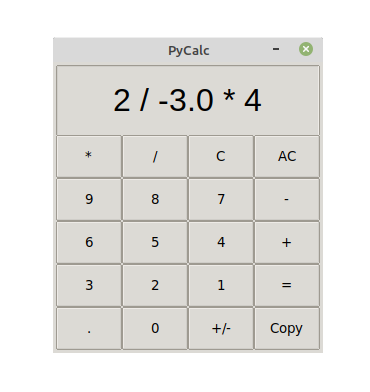
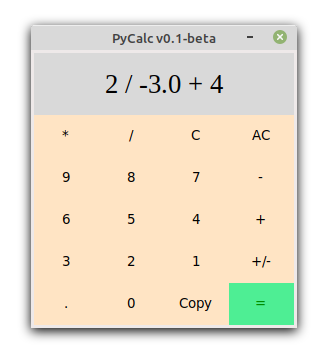
Bug fixes and cleanup

diff --git a/gui.py b/gui.py
@@ -13,14 +13,27 @@ class GUI(Tk):
         self.title("PyCalc v0.1-beta")
         self.resizable(False, False)
         styler = ttk.Style()
-        styler.theme_use("clam")
-        styler.configure("TButton", width='5', padding='10')
-        styler.configure("TLabel", font='Helvetica 24')
+        styler.configure("TLabel",
+                         font='Times 20')
+        styler.configure("TButton",
+                         relief='flat',
+                         width='5',
+                         padding='10',
+                         background='bisque')
+        styler.configure("GreenButton.TButton",
+                         relief='falt',
+                         background='SeaGreen2',
+                         foreground='green4')
+        styler.configure("Snow.TFrame",
+                         background='snow2')
         # Inheriting from Storage for program logic
         self.logic = Storage()
         # Set General layout
-        self.content = ttk.Frame(master=self, padding=(3, 3, 3, 3))
-        self.mainframe = ttk.Frame(self.content, relief='sunken')
+        self.content = ttk.Frame(master=self,
+                                 padding=(3, 3, 3, 3),
+                                 style='Snow.TFrame')
+        self.mainframe = ttk.Frame(self.content,
+                                   relief='flat')
         self.content.grid()
         self.mainframe.grid()
         self.label_text = StringVar()
@@ -31,8 +44,8 @@ class GUI(Tk):
         ''' Create the display '''
         display_frame = ttk.Frame(self.mainframe, relief='flat')
         display_frame['borderwidth'] = 10
-        display_label = ttk.Label(display_frame)
-        display_label['textvariable'] = self.label_text
+        display_label = ttk.Label(display_frame,
+                                  textvariable=self.label_text)
         # grid above widgets
         display_frame.grid(row=0, column=0, columnspan=4, pady=5, padx=5)
         display_label.grid(row=0, column=0, columnspan=4)
@@ -77,15 +90,16 @@ class GUI(Tk):
         one = ttk.Button(keypad, text='1',
                          command=lambda: self._button_invoke('1'))
         plusMinus = ttk.Button(keypad, text='+/-',
-                               command=lambda: self._button_invoke('P/M'))
+                               command=lambda: self._button_invoke('i'))
         # row 5
         dot = ttk.Button(keypad, text='.',
                          command=lambda: self._button_invoke('.'))
         zero = ttk.Button(keypad, text='0',
                           command=lambda: self._button_invoke('0'))
         copy = ttk.Button(keypad, text='Copy',
-                          command=lambda: self._button_invoke('Copy'))
+                          command=lambda: self._button_invoke('c'))
         equal = ttk.Button(keypad, text='=',
+                           style='GreenButton.TButton',
                            command=lambda: self._button_invoke('='))
         buttons = {mul: (1, 0),
                    div: (1, 1),
@@ -116,10 +130,10 @@ class GUI(Tk):
         if bt is '=':
             ''' If button pressed is '=' '''
             to_display = 'Ans: '+self.logic.show_answer()
-            self.label_text.set(to_display[-12:])
+            self.label_text.set(to_display[-17:])
         elif bt is 'Copy':
             self.logic.copy_to_clipboard()
         else:
             self.logic.into_storage(bt)
             to_display = self.logic.show_storage()
-            self.label_text.set(to_display[-12:])
+            self.label_text.set(to_display[-17:])

diff --git a/test.py b/test.py
@@ -1,5 +1,6 @@
 from storage import Storage
 
+
 def test1(storage_instance: Storage) -> tuple:
     test_case_input = "/2"
     for test_input in test_case_input:
@@ -60,12 +61,23 @@ def test5(storage_instance: Storage) -> tuple:
             )
 
 
+def test6(storage_instance: Storage) -> tuple:
+    test_case_input = "3/2i+1"
+    for test_input in test_case_input:
+        storage_instance.into_storage(test_input)
+    display = storage_instance.show_storage()
+    display_ans = storage_instance.show_answer()
+    return (display,
+            display_ans,
+            1 if display == '3 / -2.0 + 1' and display_ans == '-0.5' else 0
+            )
+
+
 if __name__ == '__main__':
 
-    for test in [test1, test2, test3, test4, test5]:
+    for test in [test1, test2, test3, test4, test5, test6]:
         storage_instance = Storage()
         result = test(storage_instance)
         print("{}: got {}, {}, valid? {}"
               .format(test.__name__, result[0],
                       result[1], ["no", "yes"][result[2]]))
-

diff --git a/storage.py b/storage.py
@@ -1,10 +1,11 @@
 from core_logic import Calculate
 from pyperclip import copy as to_clipboard
+from operator import neg
 
 
 class Storage:
     __operators: list = ['/', '*', '+', '-']
-    __special: list = ['C', 'AC', 'P/M']
+    __special: list = ['C', 'AC', 'i']
     __storage: list
     __result: str
 
@@ -65,10 +66,10 @@ class Storage:
             self.__storage.clear()
         if special == 'C':
             self.__storage.pop(-1)
-        if special == 'P/M':
+        if special == 'i':
             ''' Multiplicative inverse of last number chunk.
             Diabled when last input is operator '''
-            self.__storage[-1] *= -1
+            self.__storage[-1] = str(neg(float(self.__storage[-1])))
 
     def __put_digit(self, digit) -> None:
         if len(self.__storage) == 0 or self.__storage[-1] in self.__operators:

diff --git a/core_logic.py b/core_logic.py
@@ -33,4 +33,3 @@ class Calculate():
         right_operand = float(self.expr_as_list[index+1])
         sub_result = self._get_value[operator](left_operand, right_operand)
         self.expr_as_list[index-1:index+2] = [str(sub_result)]
-

diff --git a/main.py b/main.py
@@ -1,9 +1,10 @@
 from gui import GUI
 
+
 def main() -> None:
     gui_instance = GUI()
     gui_instance.mainloop()
 
+
 if __name__ == '__main__':
     main()
-
